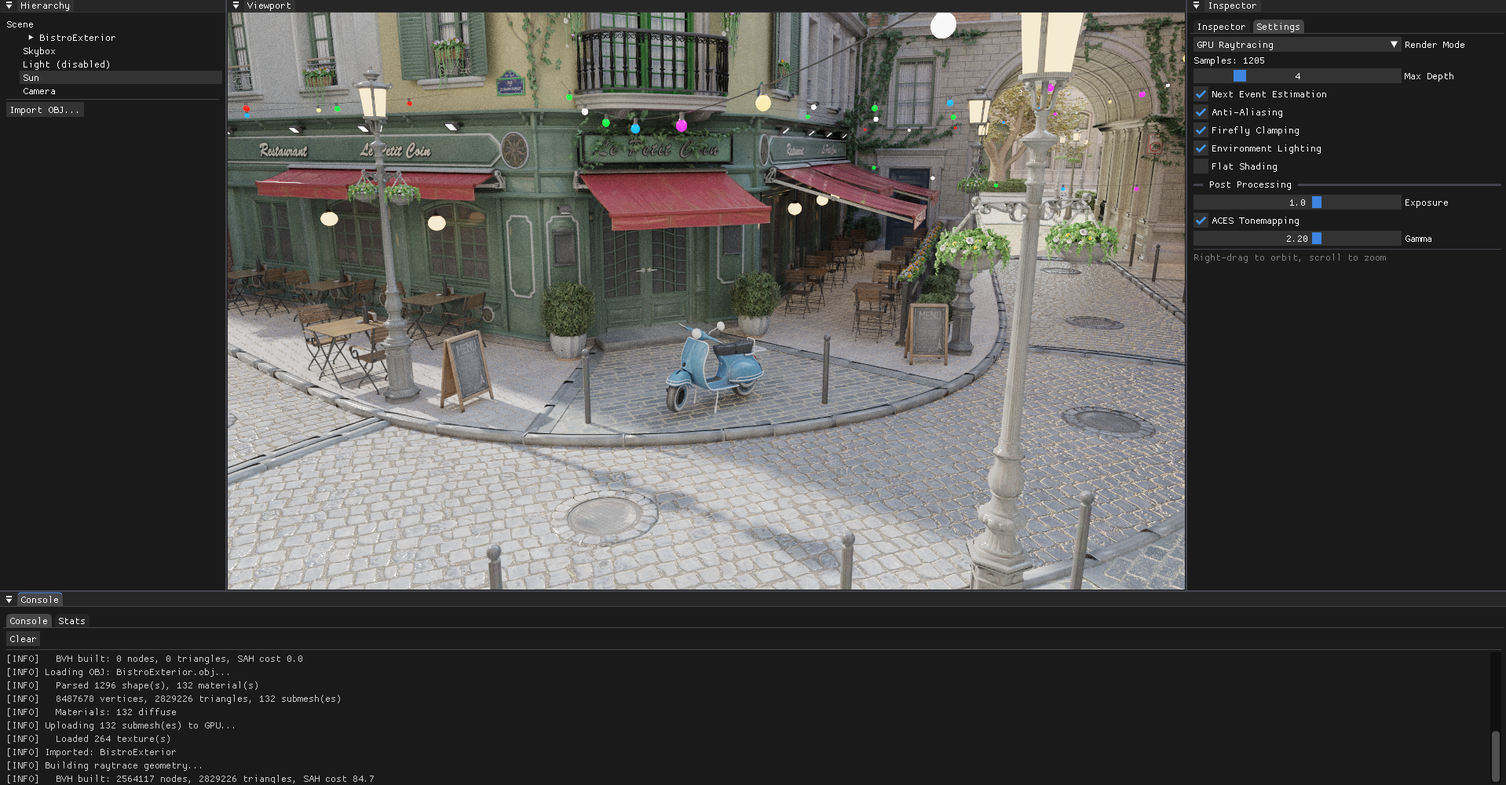
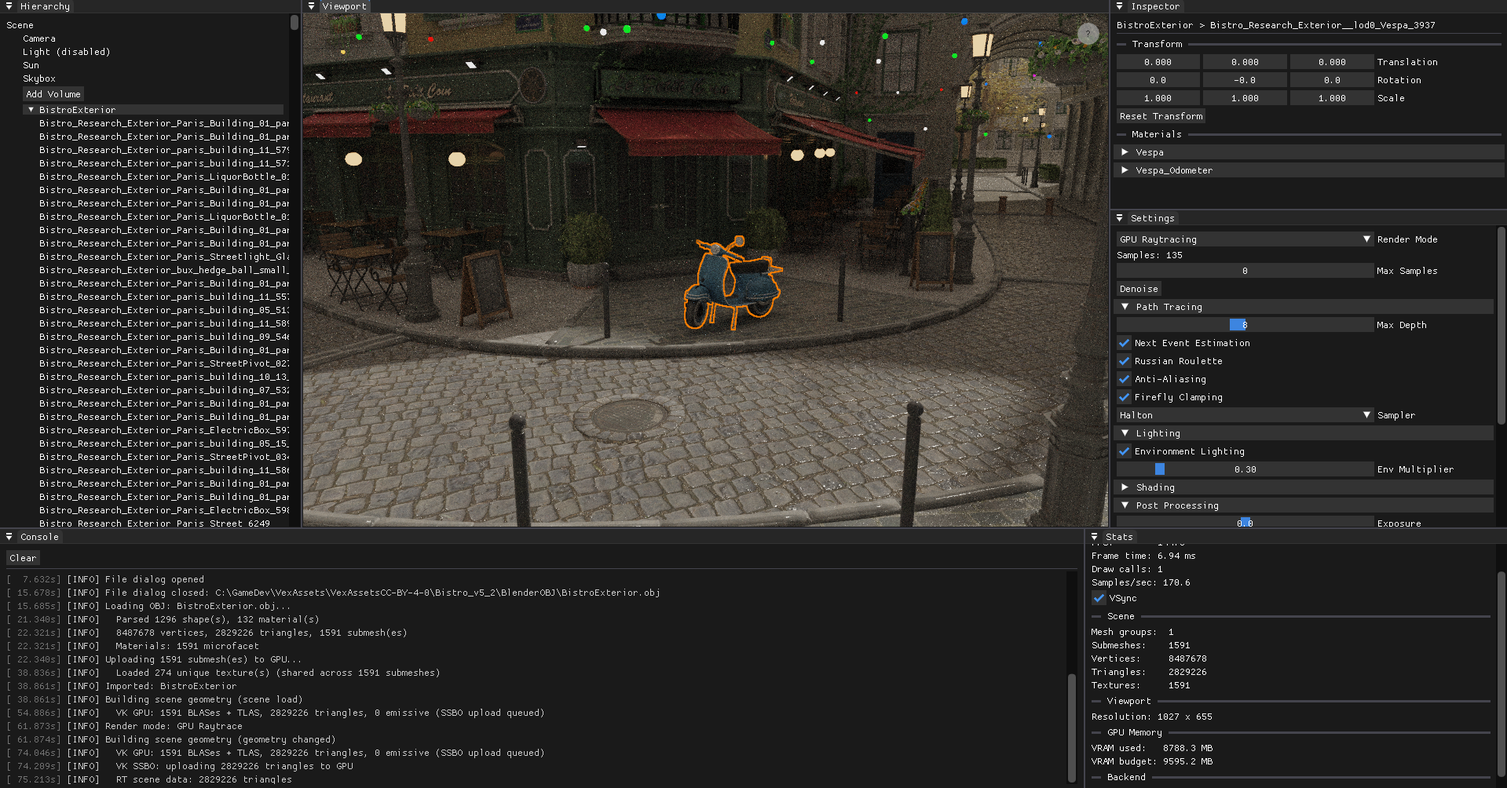
Restructure engine post and update some images

diff --git a/_site/posts/003_Engine/index.html b/_site/posts/003_Engine/index.html
@@ -45,7 +45,8 @@
 <li class="task-list-item"><input class="task-list-item-checkbox" checked="" disabled="" type="checkbox"> Interactive camera (zoom, pan, orbit)</li>
 <li class="task-list-item"><input class="task-list-item-checkbox" checked="" disabled="" type="checkbox"> Saving Framebuffer as image to disk</li>
 <li class="task-list-item"><input class="task-list-item-checkbox" checked="" disabled="" type="checkbox"> Viewport gizmos (translate, rotate, scale in the viewport)</li>
-<li class="task-list-item"><input class="task-list-item-checkbox" disabled="" type="checkbox"> Undo/redo system</li>
+<li class="task-list-item"><input class="task-list-item-checkbox" checked="" disabled="" type="checkbox"> Undo/redo system (command stack, Ctrl+Z/Y)</li>
+<li class="task-list-item"><input class="task-list-item-checkbox" checked="" disabled="" type="checkbox"> Primitive objects (plane, cube, sphere, cylinder)</li>
 </ul>
 </details>
 <details>
@@ -152,20 +153,20 @@
 </ul>
 </details>
 <p>Some of the features are further discussed below.</p>
-<h2>Window &amp; UI</h2>
-<p>The foundation is <a href="https://www.glfw.org/">GLFW</a> for window creation and input handling — lightweight, cross-platform, and compatible with both OpenGL and Vulkan out of the box. On top of that sits <a href="https://github.com/ocornut/imgui">Dear ImGui</a> with the <a href="https://github.com/ocornut/imgui/wiki/Docking">docking branch</a>, which gives me a fully rearrangeable editor where every panel can be docked, undocked and resized freely. Since ImGui is immediate-mode, the UI is just code — no widget trees, no event callbacks, just describe what you want each frame and move on.</p>
+<h2>Editor</h2>
+<p>The foundation is <a href="https://www.glfw.org/">GLFW</a> for window creation and input handling, with <a href="https://github.com/ocornut/imgui">Dear ImGui</a> (docking branch) on top for the UI. Since ImGui is immediate-mode, the entire editor is just code — no widget trees, no event callbacks, just describe what you want each frame and move on. Every panel can be freely docked, undocked and resized.</p>
 <div style="text-align:center; color:#888; font-size:0.85em;">
       <img class="lb" src="/images/Engine_002.png" alt="Full editor layout" style="max-width:100%">
 <p>Scene: Nvidia <a href="https://developer.nvidia.com/orca/amazon-lumberyard-bistro">Amazon Lumberyard Bistro</a> (CC-BY 4.0)</p>
 </div>
-<h2>Editor &amp; Scene</h2>
-<p>The editor is built around five dockable panels. The <strong>Scene Hierarchy</strong> shows all loaded objects in a tree; clicking one selects it and syncs the viewport highlight. The <strong>Inspector</strong> exposes the selected object's material and rendering properties — roughness, metallic, emissive intensity, shadow bias — and lets you edit them live. The <strong>Console</strong> captures all engine output in real time, the <strong>Viewport</strong> is the main rendering view, and <strong>Performance Metrics</strong> track frame time, FPS and draw call counts.</p>
+<p>The editor is built around five panels. The <strong>Scene Hierarchy</strong> shows all loaded objects in a tree; clicking one selects it and syncs the viewport highlight. The <strong>Inspector</strong> exposes the selected object's material and rendering properties — roughness, metallic, emissive intensity, shadow bias — and lets you edit them live. The <strong>Console</strong> captures all engine output in real time, the <strong>Viewport</strong> is the main rendering view, and <strong>Performance Metrics</strong> track frame time, FPS and draw call counts.</p>
 <p>Navigating the scene feels like Blender: scroll to zoom, middle-mouse to pan, click-drag to orbit around a focus point. Meshes can be loaded and deleted at runtime via file dialog using <a href="https://github.com/tinyobjloader/tinyobjloader">tinyobjloader</a>, the hierarchy updates automatically to reflect changes.</p>
 <p>Clicking an object in the viewport highlights it with a <strong>screen-space outline</strong>: the selected geometry is rendered as a solid silhouette into an offscreen mask, which the tone-map pass then dilates with a 5×5 kernel and composites as an orange ring over the final image.</p>
 <div style="text-align:center; color:#888; font-size:0.85em;">
       <img class="lb" src="/images/Engine_Selection.png" alt="Full editor layout" style="max-width:100%">
 <p>Scene: <a href="https://polyhaven.com/a/chess_set">Chess Set</a> (CC0)</p>
 </div>
+<p>Selected objects can also be transformed directly in the viewport: <strong>W</strong> for translate, <strong>E</strong> for rotate, <strong>R</strong> for scale, <strong>G</strong> to toggle local/global space. The gizmo is drawn using the ImGui draw list, so it requires no additional GPU passes. The <strong>pivot point</strong> is derived from the geometry's own AABB rather than the matrix origin, so scaling and rotating always feel anchored to the visual center of the object. All operations are recorded as <strong>undoable commands</strong> (Ctrl+Z / Ctrl+Y), and Ctrl+D duplicates the selected object. Primitive objects — plane, cube, UV sphere, and cylinder — can be created directly from the hierarchy panel.</p>
 <details>
 <summary>Picking, Selection & Outline — Implementation Details</summary>
 <p><strong>Shared infrastructure</strong></p>
@@ -252,7 +253,7 @@
 <tr>
 <td>Enable flag</td>
 <td><code>uniform bool u_enableOutline</code></td>
-<td>Push constant at byte offset 64 (<code>layout(offset=64) uint enableOutline</code>)</td>
+<td>Push constant at byte offset 128 (<code>layout(offset=128) uint enableOutline</code>)</td>
 </tr>
 <tr>
 <td>Flag dispatch</td>
@@ -261,6 +262,14 @@
 </tr>
 </tbody>
 </table>
+</details>
+<details>
+<summary>Gizmo Implementation Details</summary>
+<p>All three modes operate in world space and write back to local space via <code>inverse(groupMatrix) × newWorldMatrix</code> for submesh cases.</p>
+<p><strong>Translate</strong> — A ray is cast from the camera through the cursor and projected onto the axis line. The offset accumulated is <code>newWorld[3] += axis × worldDist</code>, applied directly to the translation column. Using <code>glm::translate</code> instead would apply the offset in local space and produce wrong results when the object is rotated.</p>
+<p><strong>Rotate</strong> — A ray-plane intersection gives the cursor's hit point on the plane perpendicular to the rotation axis. An angle is read as <code>atan2(cross · axis, dot)</code> relative to a reference vector frozen at drag start, so the handle tracks the cursor continuously rather than snapping to an absolute angle.</p>
+<p><strong>Scale</strong> — Pivot preservation is handled analytically: after scaling the matrix, the translation column is corrected with <code>newWorld[3] = pivot − newWorld × localCenter</code>, where <code>localCenter</code> is the AABB center in local space frozen at drag start. This keeps the pivot stationary while the mesh grows. The center knob performs uniform scaling and is tested first in the hit list so it always takes priority over the axis handles.</p>
+<p><strong>Undo/redo</strong> — Every drag end emits a <code>CmdSetTransform</code> command pushed onto a 50-deep deque-based command stack. The command stores the before/after world matrices and converts to local space on apply via <code>applyTransformMat</code>. Ctrl+Z/Y walk the stack; Ctrl+D emits a <code>CmdDuplicate</code>.</p>
 </details>
 <h2>Dual Backend: OpenGL &amp; Vulkan</h2>
 <p>One of the more unusual design decisions is supporting two graphics APIs, selected at compile time via a CMake flag. All GPU concepts — shaders, framebuffers, meshes, textures — sit behind a common interface; the application layer never calls any GL or VK functions directly. This forced me to think carefully about where abstraction boundaries belong, and made every feature run twice — a surprisingly effective way to catch design mistakes early.</p>
@@ -336,32 +345,6 @@
 <li><strong>Hardware constant depth bias</strong> — A small constant bias (<code>glPolygonOffset</code> / <code>vkCmdSetDepthBias</code>) applied during shadow map rendering handles the residual case where <code>NdotL ≈ 1</code> and the normal offset is near zero. The slope-scale component is intentionally zero — at grazing angles it diverges and recreates the peter-panning that normal offset is designed to avoid.</li>
 </ul>
 </details>
-<h2>Post-Processing</h2>
-<p>The post-processing stack sits between the HDR render and the final display output. Every render path — rasterizer and path tracer, OpenGL and Vulkan — shares the same pipeline: <strong>bloom</strong> composited in linear HDR space, then <strong>ACES tone mapping</strong> and <strong>exposure / gamma correction</strong> in a single fullscreen pass.</p>
-<p><strong>Bloom</strong> runs as a three-stage pipeline on a half-resolution offscreen framebuffer:</p>
-<ol>
-<li>
-<p><strong>Threshold</strong> — A fragment shader reads the HDR source, converts each pixel to luminance, and applies a soft ramp: pixels below the threshold contribute nothing, pixels above it contribute proportionally to how far they exceed it. Only bright surfaces — emissive materials, specular highlights, direct light hits — pass through.</p>
-</li>
-<li>
-<p><strong>Separable Gaussian blur</strong> — A pair of ping-pong framebuffers alternate horizontal and vertical 9-tap Gaussian passes (σ ≈ 1.5). Running the blur multiple times spreads the glow further without a wider kernel.</p>
-</li>
-<li>
-<p><strong>Composite</strong> — The blurred bloom map is additively mixed onto the HDR image at a configurable intensity, before tone mapping is applied. Compositing in HDR space means the glow from an overexposed surface stays bright through the tone mapper rather than getting clipped to a flat white halo.</p>
-</li>
-</ol>
-<p>One complication arises with the GPU path tracers: the accumulation buffer stores a running sum across N samples, not a normalised average. The threshold shader divides by the sample count before extracting bright pixels — without this, the bloom contribution would grow linearly with N and blow the image out to white after enough samples.</p>
-<div style="margin:1.5rem auto; width:100%">
-  <div class="img-compare" onmousemove="var x=event.offsetX,w=this.offsetWidth,l=this.querySelector('.ic-left'),d=this.querySelector('.ic-line');l.style.clipPath='inset(0 '+(w-x)+'px 0 0)';d.style.left=x+'px'" ontouchmove="var r=this.getBoundingClientRect(),x=Math.max(0,Math.min(event.touches[0].clientX-r.left,r.width)),l=this.querySelector('.ic-left'),d=this.querySelector('.ic-line');l.style.clipPath='inset(0 '+(r.width-x)+'px 0 0)';d.style.left=x+'px';event.preventDefault()">
-    <img class="ic-right" src="/images/Engine_Compare_Bloom.png" alt="Bloom on">
-    <img class="ic-left" src="/images/Engine_Compare_NoBloom.png" alt="Bloom off">
-    <div class="ic-line"></div>
-    <span class="ic-label ic-label-left">Bloom off</span>
-    <span class="ic-label ic-label-right">Bloom on</span>
-  </div>
-  <div style="text-align:center; color:#888; font-size:0.85em; margin-top:0.5rem">
-<p>Scene: Nvidia <a href="https://developer.nvidia.com/orca/amazon-lumberyard-bistro">Amazon Lumberyard Bistro</a> (CC-BY 4.0)</div></p>
-</div>
 <h2>Path Tracing</h2>
 <p>The engine's main rendering mode is a <strong>progressive path tracer</strong> displayed in the viewport via a fullscreen quad. It accumulates samples silently in the background — the longer the scene sits still, the cleaner the image gets. Any change to the camera, geometry, or settings immediately resets the accumulation and starts fresh.</p>
 <div style="display:grid; grid-template-columns: repeat(4, 1fr); margin:1.5rem auto; width:100%; overflow:hidden">
@@ -432,6 +415,32 @@
     <div class="ic-line"></div>
     <span class="ic-label ic-label-left">16 SPP (raw)</span>
     <span class="ic-label ic-label-right">OIDN denoised</span>
+  </div>
+  <div style="text-align:center; color:#888; font-size:0.85em; margin-top:0.5rem">
+<p>Scene: Nvidia <a href="https://developer.nvidia.com/orca/amazon-lumberyard-bistro">Amazon Lumberyard Bistro</a> (CC-BY 4.0)</div></p>
+</div>
+<h2>Post-Processing</h2>
+<p>The post-processing stack sits between the HDR render and the final display output. Every render path — rasterizer and path tracer, OpenGL and Vulkan — shares the same pipeline: <strong>bloom</strong> composited in linear HDR space, then <strong>ACES tone mapping</strong> and <strong>exposure / gamma correction</strong> in a single fullscreen pass.</p>
+<p><strong>Bloom</strong> runs as a three-stage pipeline on a half-resolution offscreen framebuffer:</p>
+<ol>
+<li>
+<p><strong>Threshold</strong> — A fragment shader reads the HDR source, converts each pixel to luminance, and applies a soft ramp: pixels below the threshold contribute nothing, pixels above it contribute proportionally to how far they exceed it. Only bright surfaces — emissive materials, specular highlights, direct light hits — pass through.</p>
+</li>
+<li>
+<p><strong>Separable Gaussian blur</strong> — A pair of ping-pong framebuffers alternate horizontal and vertical 9-tap Gaussian passes (σ ≈ 1.5). Running the blur multiple times spreads the glow further without a wider kernel.</p>
+</li>
+<li>
+<p><strong>Composite</strong> — The blurred bloom map is additively mixed onto the HDR image at a configurable intensity, before tone mapping is applied. Compositing in HDR space means the glow from an overexposed surface stays bright through the tone mapper rather than getting clipped to a flat white halo.</p>
+</li>
+</ol>
+<p>One complication arises with the GPU path tracers: the accumulation buffer stores a running sum across N samples, not a normalised average. The threshold shader divides by the sample count before extracting bright pixels — without this, the bloom contribution would grow linearly with N and blow the image out to white after enough samples.</p>
+<div style="margin:1.5rem auto; width:100%">
+  <div class="img-compare" onmousemove="var x=event.offsetX,w=this.offsetWidth,l=this.querySelector('.ic-left'),d=this.querySelector('.ic-line');l.style.clipPath='inset(0 '+(w-x)+'px 0 0)';d.style.left=x+'px'" ontouchmove="var r=this.getBoundingClientRect(),x=Math.max(0,Math.min(event.touches[0].clientX-r.left,r.width)),l=this.querySelector('.ic-left'),d=this.querySelector('.ic-line');l.style.clipPath='inset(0 '+(r.width-x)+'px 0 0)';d.style.left=x+'px';event.preventDefault()">
+    <img class="ic-right" src="/images/Engine_Compare_Bloom.png" alt="Bloom on">
+    <img class="ic-left" src="/images/Engine_Compare_NoBloom.png" alt="Bloom off">
+    <div class="ic-line"></div>
+    <span class="ic-label ic-label-left">Bloom off</span>
+    <span class="ic-label ic-label-right">Bloom on</span>
   </div>
   <div style="text-align:center; color:#888; font-size:0.85em; margin-top:0.5rem">
 <p>Scene: Nvidia <a href="https://developer.nvidia.com/orca/amazon-lumberyard-bistro">Amazon Lumberyard Bistro</a> (CC-BY 4.0)</div></p>

diff --git a/_site/projects/index.html b/_site/projects/index.html
@@ -61,8 +61,8 @@
   </div>
   <div class="project-card">
 <p><div class="slideshow">
-<img src="/images/thumbs/Beekeepers_010.jpg" data-full="/images/Beekeepers_010.png" alt="Cozy Beekeeping Simulator" loading="lazy" class="active"><img src="/images/thumbs/Beekeepers_001.jpg" data-full="/images/Beekeepers_001.jpg" alt="Cozy Beekeeping Simulator" loading="lazy" ><img src="/images/thumbs/Beekeepers_002.jpg" data-full="/images/Beekeepers_002.jpg" alt="Cozy Beekeeping Simulator" loading="lazy" ><img src="/images/thumbs/Beekeepers_003.jpg" data-full="/images/Beekeepers_003.jpg" alt="Cozy Beekeeping Simulator" loading="lazy" ><img src="/images/thumbs/Beekeepers_004.jpg" data-full="/images/Beekeepers_004.jpg" alt="Cozy Beekeeping Simulator" loading="lazy" ><img src="/images/thumbs/Beekeepers_005.jpg" data-full="/images/Beekeepers_005.jpg" alt="Cozy Beekeeping Simulator" loading="lazy" ><img src="/images/thumbs/Beekeepers_006.jpg" data-full="/images/Beekeepers_006.jpg" alt="Cozy Beekeeping Simulator" loading="lazy" ><img src="/images/thumbs/Beekeepers_007.jpg" data-full="/images/Beekeepers_007.jpg" alt="Cozy Beekeeping Simulator" loading="lazy" ><img src="/images/thumbs/Beekeepers_008.jpg" data-full="/images/Beekeepers_008.jpg" alt="Cozy Beekeeping Simulator" loading="lazy" ><img src="/images/thumbs/Beekeepers_009.jpg" data-full="/images/Beekeepers_009.jpg" alt="Cozy Beekeeping Simulator" loading="lazy" ><img src="/images/thumbs/Beekeepers_011.jpg" data-full="/images/Beekeepers_011.png" alt="Cozy Beekeeping Simulator" loading="lazy" ><img src="/images/thumbs/Beekeepers_012.jpg" data-full="/images/Beekeepers_012.png" alt="Cozy Beekeeping Simulator" loading="lazy" ><img src="/images/thumbs/Beekeepers_013.jpg" data-full="/images/Beekeepers_013.png" alt="Cozy Beekeeping Simulator" loading="lazy" >
-<div class="slideshow-dots"><div class="slideshow-dots-inner"><span class="dot active"></span><span class="dot "></span><span class="dot "></span><span class="dot "></span><span class="dot "></span><span class="dot "></span><span class="dot "></span><span class="dot "></span><span class="dot "></span><span class="dot "></span><span class="dot "></span><span class="dot "></span><span class="dot "></span></div></div>
+<img src="/images/thumbs/Beekeepers_010.jpg" data-full="/images/Beekeepers_010.png" alt="Cozy Beekeeping Simulator" loading="lazy" class="active"><img src="/images/thumbs/Beekeepers_002.jpg" data-full="/images/Beekeepers_002.jpg" alt="Cozy Beekeeping Simulator" loading="lazy" ><img src="/images/thumbs/Beekeepers_004.jpg" data-full="/images/Beekeepers_004.jpg" alt="Cozy Beekeeping Simulator" loading="lazy" ><img src="/images/thumbs/Beekeepers_005.jpg" data-full="/images/Beekeepers_005.jpg" alt="Cozy Beekeeping Simulator" loading="lazy" ><img src="/images/thumbs/Beekeepers_006.jpg" data-full="/images/Beekeepers_006.jpg" alt="Cozy Beekeeping Simulator" loading="lazy" ><img src="/images/thumbs/Beekeepers_007.jpg" data-full="/images/Beekeepers_007.jpg" alt="Cozy Beekeeping Simulator" loading="lazy" ><img src="/images/thumbs/Beekeepers_008.jpg" data-full="/images/Beekeepers_008.jpg" alt="Cozy Beekeeping Simulator" loading="lazy" ><img src="/images/thumbs/Beekeepers_009.jpg" data-full="/images/Beekeepers_009.jpg" alt="Cozy Beekeeping Simulator" loading="lazy" ><img src="/images/thumbs/Beekeepers_011.jpg" data-full="/images/Beekeepers_011.png" alt="Cozy Beekeeping Simulator" loading="lazy" ><img src="/images/thumbs/Beekeepers_012.jpg" data-full="/images/Beekeepers_012.png" alt="Cozy Beekeeping Simulator" loading="lazy" ><img src="/images/thumbs/Beekeepers_013.jpg" data-full="/images/Beekeepers_013.png" alt="Cozy Beekeeping Simulator" loading="lazy" >
+<div class="slideshow-dots"><div class="slideshow-dots-inner"><span class="dot active"></span><span class="dot "></span><span class="dot "></span><span class="dot "></span><span class="dot "></span><span class="dot "></span><span class="dot "></span><span class="dot "></span><span class="dot "></span><span class="dot "></span><span class="dot "></span></div></div>
 </div></p>
 <p><h3>🎮 Cozy Beekeeping Simulator</h3>
 <p>You are the owner of a cozy bee farm outside of the city. You cultivate bee colonies, plant flowers for them and go through the process of extracting and refining honey. NPCs from the city come by and buy the honey you offer on your shelves.</p>

diff --git a/src/posts/003_Engine.md b/src/posts/003_Engine.md
@@ -39,7 +39,8 @@ Here is an overview of what is done and what I am planning to work on next:
 - [x] Interactive camera (zoom, pan, orbit)
 - [x] Saving Framebuffer as image to disk
 - [x] Viewport gizmos (translate, rotate, scale in the viewport)
-- [ ] Undo/redo system
+- [x] Undo/redo system (command stack, Ctrl+Z/Y)
+- [x] Primitive objects (plane, cube, sphere, cylinder)
 
 </details>
 
@@ -131,9 +132,9 @@ Here is an overview of what is done and what I am planning to work on next:
 
 Some of the features are further discussed below.
 
-## Window & UI
+## Editor
 
-The foundation is [GLFW](https://www.glfw.org/) for window creation and input handling — lightweight, cross-platform, and compatible with both OpenGL and Vulkan out of the box. On top of that sits [Dear ImGui](https://github.com/ocornut/imgui) with the [docking branch](https://github.com/ocornut/imgui/wiki/Docking), which gives me a fully rearrangeable editor where every panel can be docked, undocked and resized freely. Since ImGui is immediate-mode, the UI is just code — no widget trees, no event callbacks, just describe what you want each frame and move on.
+The foundation is [GLFW](https://www.glfw.org/) for window creation and input handling, with [Dear ImGui](https://github.com/ocornut/imgui) (docking branch) on top for the UI. Since ImGui is immediate-mode, the entire editor is just code — no widget trees, no event callbacks, just describe what you want each frame and move on. Every panel can be freely docked, undocked and resized.
 
 <div style="text-align:center; color:#888; font-size:0.85em;">
       <img class="lb" src="/images/Engine_002.png" alt="Full editor layout" style="max-width:100%">
@@ -141,9 +142,7 @@ The foundation is [GLFW](https://www.glfw.org/) for window creation and input ha
       Scene: Nvidia [Amazon Lumberyard Bistro](https://developer.nvidia.com/orca/amazon-lumberyard-bistro) (CC-BY 4.0)
 </div>
 
-## Editor & Scene
-
-The editor is built around five dockable panels. The **Scene Hierarchy** shows all loaded objects in a tree; clicking one selects it and syncs the viewport highlight. The **Inspector** exposes the selected object's material and rendering properties — roughness, metallic, emissive intensity, shadow bias — and lets you edit them live. The **Console** captures all engine output in real time, the **Viewport** is the main rendering view, and **Performance Metrics** track frame time, FPS and draw call counts.
+The editor is built around five panels. The **Scene Hierarchy** shows all loaded objects in a tree; clicking one selects it and syncs the viewport highlight. The **Inspector** exposes the selected object's material and rendering properties — roughness, metallic, emissive intensity, shadow bias — and lets you edit them live. The **Console** captures all engine output in real time, the **Viewport** is the main rendering view, and **Performance Metrics** track frame time, FPS and draw call counts.
 
 Navigating the scene feels like Blender: scroll to zoom, middle-mouse to pan, click-drag to orbit around a focus point. Meshes can be loaded and deleted at runtime via file dialog using [tinyobjloader](https://github.com/tinyobjloader/tinyobjloader), the hierarchy updates automatically to reflect changes.
 
@@ -154,6 +153,8 @@ Clicking an object in the viewport highlights it with a **screen-space outline**
 
       Scene: [Chess Set](https://polyhaven.com/a/chess_set) (CC0)
 </div>
+
+Selected objects can also be transformed directly in the viewport: **W** for translate, **E** for rotate, **R** for scale, **G** to toggle local/global space. The gizmo is drawn using the ImGui draw list, so it requires no additional GPU passes. The **pivot point** is derived from the geometry's own AABB rather than the matrix origin, so scaling and rotating always feel anchored to the visual center of the object. All operations are recorded as **undoable commands** (Ctrl+Z / Ctrl+Y), and Ctrl+D duplicates the selected object. Primitive objects — plane, cube, UV sphere, and cylinder — can be created directly from the hierarchy panel.
 
 <details>
 <summary>Picking, Selection & Outline — Implementation Details</summary>
@@ -187,8 +188,23 @@ Clicking an object in the viewport highlights it with a **screen-space outline**
 | | OpenGL | Vulkan |
 |---|---|---|
 | Mask binding | `GL_TEXTURE1` + `setInt("u_outlineMask", 1)` | `setExternalTextureVK(slot=1)` → descriptor set 2 (`layout(set=2, binding=0)`) |
-| Enable flag | `uniform bool u_enableOutline` | Push constant at byte offset 64 (`layout(offset=64) uint enableOutline`) |
+| Enable flag | `uniform bool u_enableOutline` | Push constant at byte offset 128 (`layout(offset=128) uint enableOutline`) |
 | Flag dispatch | `setBool` → `glUniform1i` | `setBool` → immediate `vkCmdPushConstants` |
+
+</details>
+
+<details>
+<summary>Gizmo Implementation Details</summary>
+
+All three modes operate in world space and write back to local space via `inverse(groupMatrix) × newWorldMatrix` for submesh cases.
+
+**Translate** — A ray is cast from the camera through the cursor and projected onto the axis line. The offset accumulated is `newWorld[3] += axis × worldDist`, applied directly to the translation column. Using `glm::translate` instead would apply the offset in local space and produce wrong results when the object is rotated.
+
+**Rotate** — A ray-plane intersection gives the cursor's hit point on the plane perpendicular to the rotation axis. An angle is read as `atan2(cross · axis, dot)` relative to a reference vector frozen at drag start, so the handle tracks the cursor continuously rather than snapping to an absolute angle.
+
+**Scale** — Pivot preservation is handled analytically: after scaling the matrix, the translation column is corrected with `newWorld[3] = pivot − newWorld × localCenter`, where `localCenter` is the AABB center in local space frozen at drag start. This keeps the pivot stationary while the mesh grows. The center knob performs uniform scaling and is tested first in the hit list so it always takes priority over the axis handles.
+
+**Undo/redo** — Every drag end emits a `CmdSetTransform` command pushed onto a 50-deep deque-based command stack. The command stores the before/after world matrices and converts to local space on apply via `applyTransformMat`. Ctrl+Z/Y walk the stack; Ctrl+D emits a `CmdDuplicate`.
 
 </details>
 
@@ -281,33 +297,6 @@ Getting the bias right requires balancing two artifacts: too little causes self-
 - **Hardware constant depth bias** — A small constant bias (`glPolygonOffset` / `vkCmdSetDepthBias`) applied during shadow map rendering handles the residual case where `NdotL ≈ 1` and the normal offset is near zero. The slope-scale component is intentionally zero — at grazing angles it diverges and recreates the peter-panning that normal offset is designed to avoid.
 
 </details>
-
-## Post-Processing
-
-The post-processing stack sits between the HDR render and the final display output. Every render path — rasterizer and path tracer, OpenGL and Vulkan — shares the same pipeline: **bloom** composited in linear HDR space, then **ACES tone mapping** and **exposure / gamma correction** in a single fullscreen pass.
-
-**Bloom** runs as a three-stage pipeline on a half-resolution offscreen framebuffer:
-
-1. **Threshold** — A fragment shader reads the HDR source, converts each pixel to luminance, and applies a soft ramp: pixels below the threshold contribute nothing, pixels above it contribute proportionally to how far they exceed it. Only bright surfaces — emissive materials, specular highlights, direct light hits — pass through.
-
-2. **Separable Gaussian blur** — A pair of ping-pong framebuffers alternate horizontal and vertical 9-tap Gaussian passes (σ ≈ 1.5). Running the blur multiple times spreads the glow further without a wider kernel.
-
-3. **Composite** — The blurred bloom map is additively mixed onto the HDR image at a configurable intensity, before tone mapping is applied. Compositing in HDR space means the glow from an overexposed surface stays bright through the tone mapper rather than getting clipped to a flat white halo.
-
-One complication arises with the GPU path tracers: the accumulation buffer stores a running sum across N samples, not a normalised average. The threshold shader divides by the sample count before extracting bright pixels — without this, the bloom contribution would grow linearly with N and blow the image out to white after enough samples.
-
-<div style="margin:1.5rem auto; width:100%">
-  <div class="img-compare" onmousemove="var x=event.offsetX,w=this.offsetWidth,l=this.querySelector('.ic-left'),d=this.querySelector('.ic-line');l.style.clipPath='inset(0 '+(w-x)+'px 0 0)';d.style.left=x+'px'" ontouchmove="var r=this.getBoundingClientRect(),x=Math.max(0,Math.min(event.touches[0].clientX-r.left,r.width)),l=this.querySelector('.ic-left'),d=this.querySelector('.ic-line');l.style.clipPath='inset(0 '+(r.width-x)+'px 0 0)';d.style.left=x+'px';event.preventDefault()">
-    <img class="ic-right" src="/images/Engine_Compare_Bloom.png" alt="Bloom on">
-    <img class="ic-left" src="/images/Engine_Compare_NoBloom.png" alt="Bloom off">
-    <div class="ic-line"></div>
-    <span class="ic-label ic-label-left">Bloom off</span>
-    <span class="ic-label ic-label-right">Bloom on</span>
-  </div>
-  <div style="text-align:center; color:#888; font-size:0.85em; margin-top:0.5rem">
-
-  Scene: Nvidia [Amazon Lumberyard Bistro](https://developer.nvidia.com/orca/amazon-lumberyard-bistro) (CC-BY 4.0)</div>
-</div>
 
 ## Path Tracing
 
@@ -410,6 +399,33 @@ For the Vulkan GPU path tracer the readback copies the RGBA32F accumulation imag
     <div class="ic-line"></div>
     <span class="ic-label ic-label-left">16 SPP (raw)</span>
     <span class="ic-label ic-label-right">OIDN denoised</span>
+  </div>
+  <div style="text-align:center; color:#888; font-size:0.85em; margin-top:0.5rem">
+
+  Scene: Nvidia [Amazon Lumberyard Bistro](https://developer.nvidia.com/orca/amazon-lumberyard-bistro) (CC-BY 4.0)</div>
+</div>
+
+## Post-Processing
+
+The post-processing stack sits between the HDR render and the final display output. Every render path — rasterizer and path tracer, OpenGL and Vulkan — shares the same pipeline: **bloom** composited in linear HDR space, then **ACES tone mapping** and **exposure / gamma correction** in a single fullscreen pass.
+
+**Bloom** runs as a three-stage pipeline on a half-resolution offscreen framebuffer:
+
+1. **Threshold** — A fragment shader reads the HDR source, converts each pixel to luminance, and applies a soft ramp: pixels below the threshold contribute nothing, pixels above it contribute proportionally to how far they exceed it. Only bright surfaces — emissive materials, specular highlights, direct light hits — pass through.
+
+2. **Separable Gaussian blur** — A pair of ping-pong framebuffers alternate horizontal and vertical 9-tap Gaussian passes (σ ≈ 1.5). Running the blur multiple times spreads the glow further without a wider kernel.
+
+3. **Composite** — The blurred bloom map is additively mixed onto the HDR image at a configurable intensity, before tone mapping is applied. Compositing in HDR space means the glow from an overexposed surface stays bright through the tone mapper rather than getting clipped to a flat white halo.
+
+One complication arises with the GPU path tracers: the accumulation buffer stores a running sum across N samples, not a normalised average. The threshold shader divides by the sample count before extracting bright pixels — without this, the bloom contribution would grow linearly with N and blow the image out to white after enough samples.
+
+<div style="margin:1.5rem auto; width:100%">
+  <div class="img-compare" onmousemove="var x=event.offsetX,w=this.offsetWidth,l=this.querySelector('.ic-left'),d=this.querySelector('.ic-line');l.style.clipPath='inset(0 '+(w-x)+'px 0 0)';d.style.left=x+'px'" ontouchmove="var r=this.getBoundingClientRect(),x=Math.max(0,Math.min(event.touches[0].clientX-r.left,r.width)),l=this.querySelector('.ic-left'),d=this.querySelector('.ic-line');l.style.clipPath='inset(0 '+(r.width-x)+'px 0 0)';d.style.left=x+'px';event.preventDefault()">
+    <img class="ic-right" src="/images/Engine_Compare_Bloom.png" alt="Bloom on">
+    <img class="ic-left" src="/images/Engine_Compare_NoBloom.png" alt="Bloom off">
+    <div class="ic-line"></div>
+    <span class="ic-label ic-label-left">Bloom off</span>
+    <span class="ic-label ic-label-right">Bloom on</span>
   </div>
   <div style="text-align:center; color:#888; font-size:0.85em; margin-top:0.5rem">
 

diff --git a/src/projects/004_Beekeeper.md b/src/projects/004_Beekeeper.md
@@ -5,9 +5,7 @@ title: Cozy Beekeeping Simulator
 emoji: "\U0001F3AE"
 images: 
   - /images/Beekeepers_010.png
-  - /images/Beekeepers_001.jpg
   - /images/Beekeepers_002.jpg
-  - /images/Beekeepers_003.jpg
   - /images/Beekeepers_004.jpg
   - /images/Beekeepers_005.jpg
   - /images/Beekeepers_006.jpg
